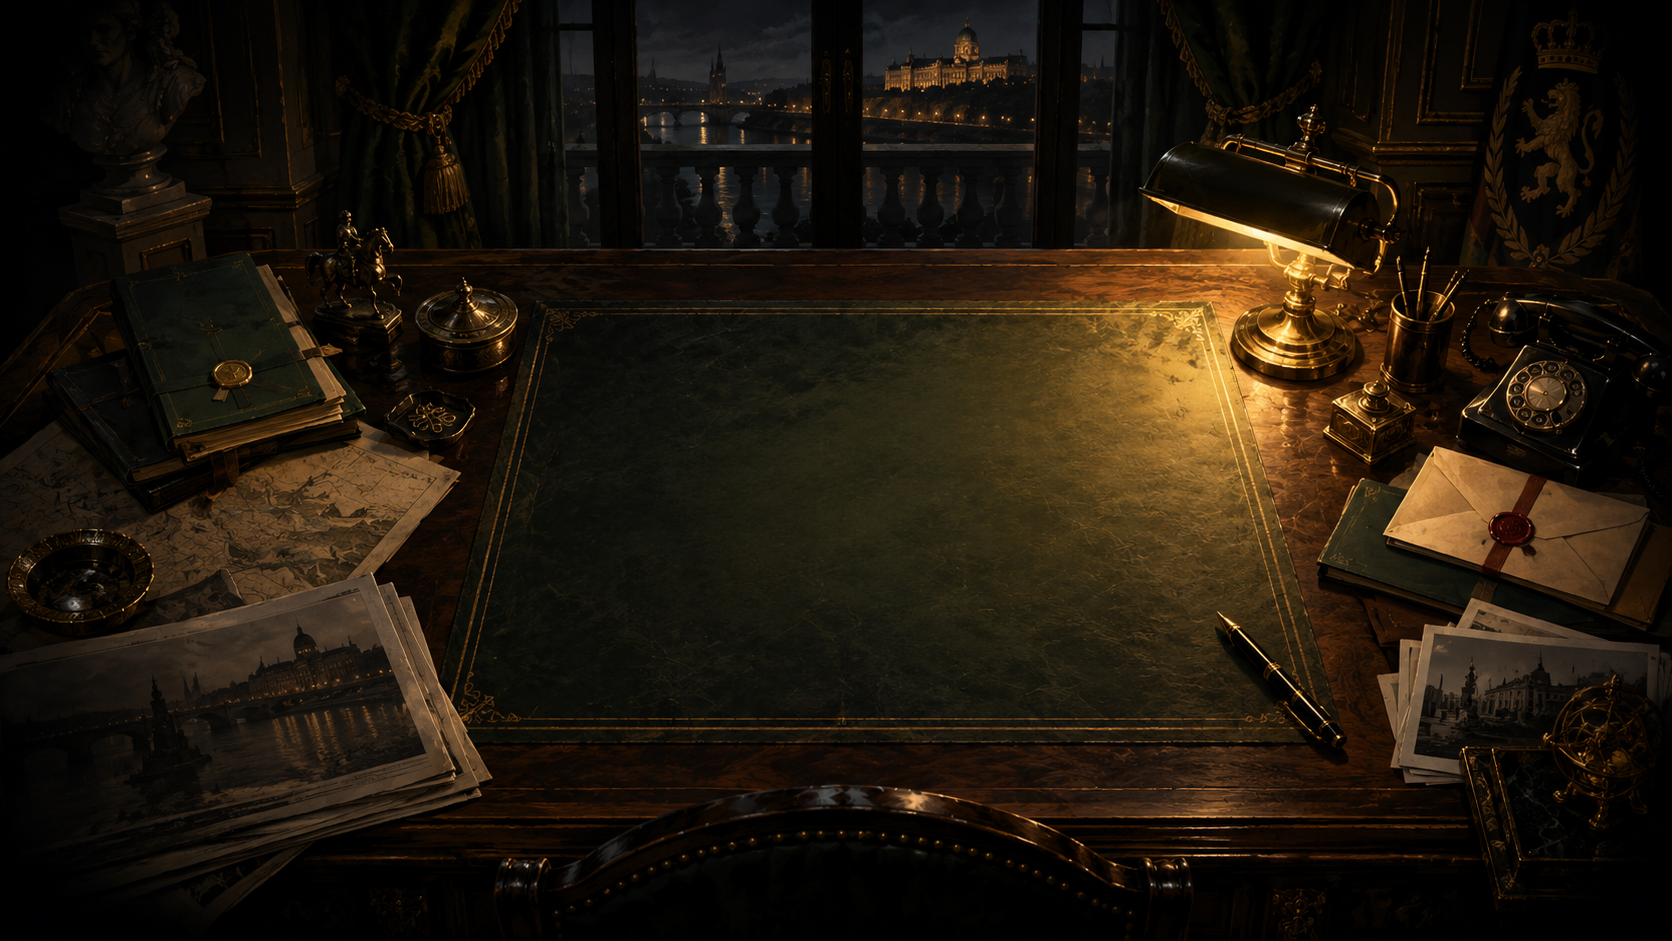
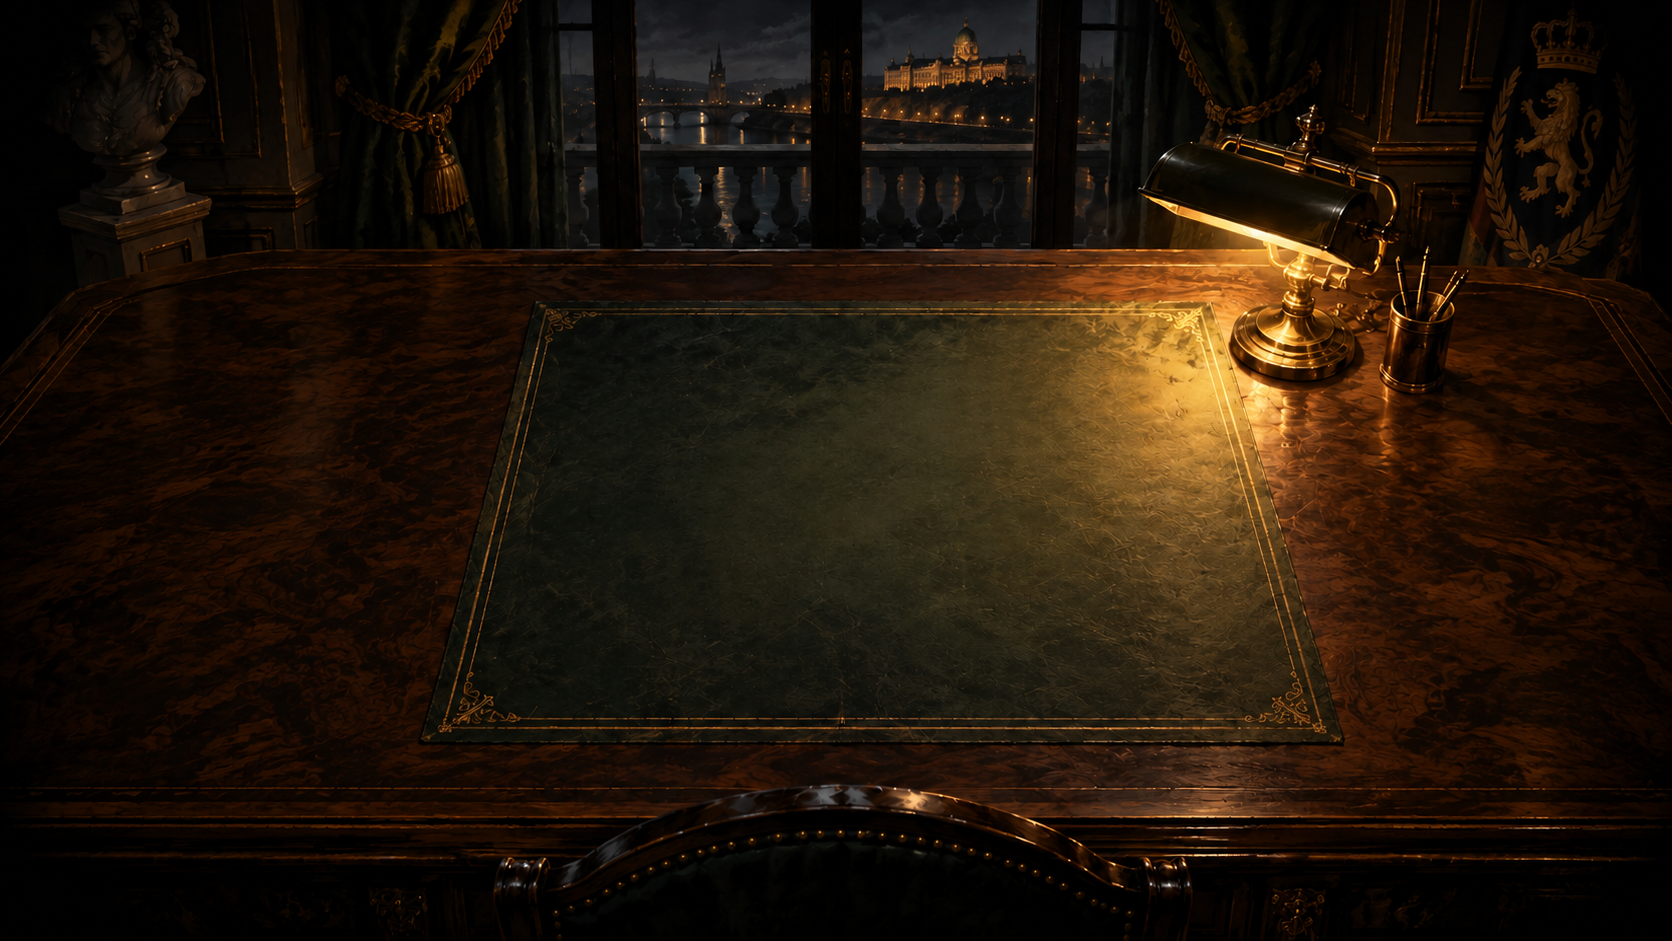
Boş masa arka planı, skill kullanım kılavuzu, devir notu
Yeni bg_desk.png (eşyasız masa; eskisi art/_arsiv), masa nesneleri yeni yüzeye göre yerleşti. docs/SKILL_KULLANIMI.md eklendi, devir notu güncellendi.

diff --git a/docs/DURUM_VE_YAPILACAKLAR.md b/docs/DURUM_VE_YAPILACAKLAR.md
@@ -1,40 +1,87 @@
 # Veloria — Durum ve Yapılacaklar (yeni oturum için devir notu)
 
-Son güncelleme: 2026-10-04 (ikinci oturum). Dal: `veloria`. Çalışma ağacındaki `.mcp.json`, `BECKETT_SETUP.md`, `project.godot` değişiklikleri (Beckett token'ının kaldırılması) kullanıcınındır; commit'lere katılmadı, dokunma. Push YOK: `origin` Beckett'in kendi deposu; kullanıcı kendi deposuna yedeklemek isterse yeni repo açıp `veloria` dalını oraya göndermeli (öneri yapıldı, cevap gelmedi).
+Son güncelleme: 2026-10-04 (üçüncü oturumun sonu). Dal: `veloria`.
+
+## Yeni oturumda ilk iş
+1. Bu dosyayı oku.
+2. `CLAUDE.md` (kullanıcının çalışma kuralları: önce incele, tasarla, sonra kodla; kalite > hız).
+3. `.claude/skills/game-design/VELORIA.md`: mimari, olay şeması, komutlar, tuzaklar, ölçülmüş denge.
+4. Skill'ler: `docs/SKILL_KULLANIMI.md` (hangi iş için hangi skill).
+
+## Dokunulmayacaklar
+- Çalışma ağacındaki `.mcp.json`, `BECKETT_SETUP.md`, `project.godot` değişiklikleri (Beckett token'ının kaldırılması), `CLAUDE.md` ve `.cursor/` kullanıcınındır. Commit'e katma.
+- Godot `--import` ya da export `.mcp.json` portunu değiştirebiliyor (8772 gibi). İşlemden sonra `"url": "http://127.0.0.1:8770/mcp"` olarak geri al; token satırını geri ekleme.
+- Push YOK: `origin` Beckett'in deposu. Kullanıcıya kendi deposunu açması önerildi, henüz cevap yok. Kodun uzak yedeği yok.
 
 ## Proje
-Godot 4.7.2, Türkçe, yatay. Kral Adrian IV, 104 hafta tahtta kalma simülasyonu. Kullanıcı: Mesut Canturk. Görselleri kullanıcı ChatGPT/Imagen ile üretiyor; ben prompt veriyorum (`ART_PROMPTS.md`). Görselleri rastgele adla `art/` köküne ya da bir klasöre atıyor; ben içeriğe bakıp (kontakt sayfası) doğru ada taşıyorum, `.import` ayarlarına boyut sınırı + lossy + mipmap uyguluyorum.
+Godot 4.7.2, Türkçe, yatay. Kral Adrian IV, 104 hafta tahtta kalma simülasyonu. Kullanıcı: Mesut Canturk. Görselleri kullanıcı ChatGPT/Imagen ile üretiyor, prompt'ları ben veriyorum (`ART_PROMPTS.md`). Görselleri rastgele adla `art/` içine atıyor; yerleştirme süreci `/asset-spec` skill'inde tanımlı.
 
-## Çalıştırma ve test
+## Çalıştırma ve test (ayrıntı: VELORIA.md > Komutlar)
 - Godot console: `C:\Users\USER\Downloads\Godot_v4.7.2-stable_win64.exe\Godot_v4.7.2-stable_win64_console.exe`
-- Testler: `--headless --path . --script res://tests/sim_test.gd` (denge+sistemler), `pacing_test.gd`, `cause_probe.gd`
-- Arayüz otomatik oynatma: `-- --autoplay`, `--mobile`, `--full` (Kolay seviyede 104 haftayı arayüzden oynar)
-- Ekran görüntüsü: pencereli `--path . --script res://tests/ui_shots.gd -- --out=KLASÖR [--mobile]` (görüntüleri Read ile incele)
-- Build: `--export-release "Windows Desktop"|Linux|Web` → `dist/windows|linux|web`; zip'ler `dist/release/`. Export sonrası `.mcp.json` portu 8770'e geri alınmalı.
-- Beckett MCP (127.0.0.1:8770) editör açıkken çalışır; araçlar oturumda görünmezse HTTP JSON-RPC ile çağır. Dev bayrakları (`veloria/dev_*`) project.godot'ta KAPALI kalmalı.
-- Tuzaklar: `class_name` yerine `preload`; web'de ◆ ⏳ → gibi glifler kutu çıkar; görünmez Control'ler tıklama yutar (Beckett `ui_snapshot` → `occluded_by` ile tara); yapay `push_input` tıklama testi çalışmıyor; PowerShell'de çok satırlı commit mesajı için `-m` kullan; testler oyuncu kaydına dokunmaz (`save_path`, `record_chronicle`, `autosave`).
+- `sim_test.gd` (TEST: OK), `pacing_test.gd`, `-- --autoplay` (`--mobile`, `--full`), `ui_shots.gd` (pencereli ekran görüntüsü; `--only-desk`, `--only-world`, `--mobile`)
+- Denge sondajı: `.claude/skills/balance-check/probe_template.gd` (`-- --n=40 --all-diffs`)
+- İçe aktarma (editör kapalıyken): `--headless --path . --import`
 
 ## Yapılanlar (tamamı commit'li)
-Simülasyon: gizli durum+raporlar+yalan, ortak bilgi, eşik kaskadı/darbe, emir kanalları, operasyonlar, şantaj/araştır/kırmızı çizgi, söz defteri, zorluk (Kolay/Normal/Zor), 71 olay (zincirleme dahil), başarımlar (15), tarihçiler, hakikat dosyası+grafik, arşiv, otomatik kayıt, Türkçe ek uyumu (`Sim.ek`).
-Arayüz: tema, sinematikler (açılış/final/hafta geçişi/mühür), Çalışma Masası, Başkent Haritası, Medya Merkezi (2 gazete + TV), mobil yatay düzen, kısayollar, ayarlar, Hakkında, açılış ekranı, tüm görseller yerleşik (71 olayın hepsi görselli, art/desk, art/city_map.png).
-Son tur (274e6df): düğme hiyerarşisi (Ghost/Danger/Choice), gruplu eylem paneli, sır kartları, bildirim yığını, iki sütun rapor.
-Belgeler: `docs/OYUNCU_REHBERI.md`, `docs/GELISTIRICI_REHBERI.md`, `docs/ARAYUZ_PLANI.md`.
+- **Simülasyon:** gizli durum + yalan söyleyen raporlar, ortak bilgi ve eşik kaskadı/darbe, emir kanalları, operasyonlar, şantaj/araştır/kırmızı çizgi, söz defteri, 3 zorluk, 71 olay, 15 başarım, tarihçiler, Hakikat Dosyası + grafik, arşiv, otomatik kayıt.
+- **Arayüz turları 1–3:**
+  - akış şeridi
+  - sekmeli oyun sonu
+  - sayfalı menü (4 düğme, Yeni Oyun'da zorluk, Ayarlar ayrı sayfada)
+  - masada ışık ve gölge (`desk_lit` / `desk_shadow` gölgelendiricileri)
+  - masa etiketlerinin altında tek satır özet
+  - kişi paneli göstergeleri
+  - ortak görsel imza (`UIKit.band_style`, `ornament`, `divider`, `caps`, `_section`)
+  - tam dolu portre kartları
+- **Bu oturum:**
+  - Proje analizi raporu verildi (aşağıdaki "Yol haritası" ondan çıktı).
+  - 11 projeye özel skill eklendi (`.claude/skills/`, `docs/SKILL_KULLANIMI.md`).
+  - **Boş masa arka planı yerleşti:** yeni `art/bg_desk.png`, eskisi `art/_arsiv/bg_desk_esyali.png`; `desk_view.gd` `LAYOUT` yeni masaya göre ayarlandı.
 
-Arayüz turu 2 (2026-10-04, ikinci oturum): 1, 4, 5 yapıldı —
-- Akış şeridi (`_rebuild_flow`, `_flow_chip`, `_on_flow`): alt satırda Haftayı Bitir'in solunda; mesai, bekleyen/acil karar, okunmamış medya, vadesi gelen söz, yayılan sır. Parçalar tıklanınca Gündem/Medya/Dosyalar'a götürür.
-- Oyun sonu sekmeleri (`_end_tabs`, `_end_page`): Özet / Grafik / Tarihçiler / Hakikat Dosyası (n) / Kararlar; grafik sekme ilk açılınca çizilir. "Ana Menü" düğmesi eklendi.
-- Menü sayfaları (`_menu_page`, `_menu_show_page`): ana sayfa 4 düğme (Devam Et|Oyuna Dön, Yeni Oyun, Ayarlar, Çıkış — web'de Çıkış gizli) + bağlantılar (Nasıl Oynanır, Arşiv, Hakkında). Zorluk "Yeni Oyun" sayfasında, ayarlar ayrı sayfada. Esc alt sayfadan ana sayfaya döner.
-- Ekran görüntüsü aracı: `tests/ui_shots.gd` (pencereli; `-- --out=KLASÖR [--mobile]`), dev ayarlarını yalnızca bellekte açar.
+## Ölçülmüş denge (Normal, 40 kampanya, probe_template)
+| Bot | Kazanma | Ort. hafta | Not |
+|---|---|---|---|
+| idle | 0% | 25 | hep askerî darbe |
+| visible (kararlar rastgele) | 17% | 53 | gerçek oyuncuya en yakın |
+| visible_wise (kararlarda etkiyi tahmin eder) | 75% | 94 | |
+| omniscient | 12% | 85 | hedef değil |
 
-Arayüz turu 3 (görsel cila):
-- Masa: nesneler masanın lambasıyla aydınlatılıyor (`desk_lit.gdshader`, `LAMP_UV`) ve silüetlerinden gölge düşürüyor (`desk_shadow.gdshader`: geniş düşen gölge + dar temas gölgesi). Yerleşim/dönüş/yükseklik `LAYOUT` ve `FEEL`'de. Üzerine gelince nesne kalkar, gölgesi yumuşar. Rozetler nesneden kalktı; etiketin yanında küçük işaret + altında tek satır özet (`_summary`).
-- Kişi paneli: göstergeler (`_trait`): güç 3 kademe, düşman, karşılık bekliyor, zayıf nokta/kırmızı çizgi (bilinmiyorsa "?"), doğrulama karnesi, sözler. Bilgi miktarı eskisiyle aynı.
-- Ortak imza: `UIKit.band_style()` (ana ekran, harita, medya başlık bandı), `UIKit.ornament()` (köşebentler), `UIKit.divider()` (masa ve menü başlık ayracı), `UIKit.caps()` (aralıklı başlık fontu), `_section()` bölüm başlıkları. Portre kartları tam dolu, ad portrenin üstünde.
+Kararların kalitesi sonucu belirliyor ama oyuncu seçeneklerin etkisini göremiyor. Kayıpların çoğu askerî darbe. Kazananlar çoğunlukla "… Kuklası" ünvanı alıyor. İkinci yılda olay yoğunluğu ~0,5/hafta.
 
-## Yapılacaklar (öncelik sırası)
-1. Boş masa arka planı bekleniyor (prompt: `ART_PROMPTS.md` > "Boş masa arka planı"). Gelince `art/bg_desk.png` yerine koy (eskisini `art/_arsiv`), `LAYOUT`'u yeni görselde nesneler masaya otursun diye ince ayarla, `LAMP_UV`'yi lambaya göre düzelt.
-Not: menü açılınca sağ üstteki bildirimler temizleniyor (eskiden menünün üstünde kalıyordu).
-Diğer: kullanıcı henüz tam bir saltanat oynamadı; geri bildirimi (denge, metin, ses) bekleniyor. Sentezlenmiş sesleri kimse dinlemedi ("sesler iyi" dedi). Linux build gerçek makinede denenmedi. Android/iOS kasıtlı yapılmadı (kullanıcı: APK gerekmez).
+## Yol haritası (analiz raporundan; kullanıcı henüz faz seçmedi)
+**Faz 0 — Güvence**
+- kendi deposunu açması (kullanıcı)
+- kayıt dosyasına `version` alanı ve göç (`/tech-debt`)
+- `events.json` doğrulayıcı
+- ~~boş masa~~ (yapıldı)
+- ~~görünür bilgi botu~~ (probe_template'te var; `sim_test`'e de eklenebilir)
+
+**Faz 1 — Okunabilirlik (en yüksek etki)**
+- seçeneklerde yanılabilir danışman görüşleri
+- darbeyi aşamalı ve görünür yapmak (tohum → işaret → gerilim → kriz), kişi kartında "huzursuz/şüpheli" sinyali
+- raporlarda geçen haftaya göre değişim
+- hafta sonu "neler değişti" özeti
+- eylem önizlemesi (maliyet / risk / iz)
+
+**Faz 2 — Strateji derinliği ve denge**
+- kayıp çeşitliliği
+- rüşvete azalan getiri
+- hedefli "birbirine düşür"
+- aktörlerin kendi hamleleri
+- denge hedefleri `/balance-check`'te
+
+**Faz 3 — Kampanya ve içerik:** dönemler, ikinci yıl için 20–30 olay, karakter hikâye yayları, rejim tipi ve buna bağlı final tehdidi.
+
+**Faz 4 — Belgedeki büyük sistemler:** devlet bütçesi/kapasitesi, patronaj/oligark.
+
+**Faz 5 — Cila ve altyapı:** gerçek ses ve müzik, `main.gd`'yi bölmek, artırımlı arayüz güncellemesi, yerelleştirme.
+
+Önerilen başlangıç: Faz 1, "seçeneklerde danışman görüşü". Önce `/design-system` ile tasarlanmalı.
+
+## Bilinen küçük sorunlar
+- Sağ üstteki bildirimler masa ve haritanın üstünde kalıyor (menü açılınca temizleniyor).
+- Masada soldaki günlük lambadan uzak olduğu için karanlık kalıyor; okunurluk için `desk_lit` `ambient` ya da günlüğün yeri ayarlanabilir.
+- Kullanıcı henüz tam bir saltanat oynamadı; denge, metin ve ses geri bildirimi bekleniyor. Linux build gerçek makinede denenmedi. Android/iOS kasıtlı yapılmadı.
 
 ## Kullanıcı tercihleri
-Sormadan ilerle ("bana hiç sorma"); sonuçta kısa Türkçe özet; commit'e izin verdi; push etme.
+Sormadan ilerle; büyük özellikte önce tasarla (`CLAUDE.md`). Sonuçta kısa Türkçe özet. Commit'e izin var, push yok.

diff --git a/docs/SKILL_KULLANIMI.md b/docs/SKILL_KULLANIMI.md
@@ -1,0 +1,61 @@
+# Skill'ler nasıl kullanılır?
+
+Veloria'ya özel 11 skill `.claude/skills/` klasöründe. Her biri Claude'a bu projede belirli bir işi nasıl yapacağını anlatan hazır bir çalışma talimatı.
+
+## Çağırmanın iki yolu
+
+**1. Doğrudan komutla:** Mesajın başına `/` ve skill adını yaz, ardından ne istediğini ekle.
+
+```
+/balance-check Zor seviye çok mu zor?
+/design-system darbe sistemini baştan tasarla
+/asset-spec art klasörüne yeni bir görsel attım, yerleştir
+```
+
+**2. Doğal dille:** Skill adını bilmen gerekmez. "Denge nasıl?", "bu ekranı kontrol et", "yeni olay görseli lazım" gibi yazdığında Claude uygun skill'i kendisi seçer. Belirli bir yöntem istiyorsan komutla çağırmak daha garantilidir.
+
+Yeni eklenen ya da değiştirilen skill'ler oturum başında yüklenir. Listede görünmüyorsa yeni bir oturum aç.
+
+## Hangi iş için hangisi?
+
+| Ne istiyorsun? | Skill | Ne üretir? |
+|---|---|---|
+| Aklına bir özellik geldi, oyuna değer mi? | `/game-design` | Kısa tasarım notu: oyuncu kararı, riskler, en küçük sürüm, uygulama planı |
+| Tek bir sistemi (darbe, sırlar, ekonomi, sözler…) derinlemesine tasarlamak | `/design-system` | `docs/design/<sistem>.md`: kurallar, formüller, etkileşimler, denge hedefleri |
+| Yazılmış bir tasarımı ya da olay paketini eleştirmek | `/design-review` | Onay / değişiklikle onay / yeniden tasarım kararı ve en önemli 3 sorun |
+| Oyun çok mu zor, kolay mı, bir hile var mı? | `/balance-check` | Bot simülasyonu tablosu (kazanma %, kayıp türleri, ünvanlar, tempo) ve öneriler |
+| Bir ekranı ya da HUD öğesini tasarlamak | `/ux-design` | `docs/ux/<ekran>.md`: yerleşim çizimi, durumlar, metinler |
+| Arayüz amatör mü görünüyor, bir şey bozuk mu? | `/ux-review` | Ekran görüntülerine dayanan, önem sırasına dizilmiş bulgu listesi |
+| Bir arayüz işini baştan sona bitirmek | `/team-ui` | Tasarım → kod → görsel kontrol → testler → belge → commit |
+| Görsel kimliği belgelemek, tutarsız görselleri bulmak | `/art-bible` | `docs/ART_BIBLE.md` |
+| Yeni görsel lazım ya da attığın görseli yerleştirmek | `/asset-spec` | Prompt + teknik özellik; gelen görseli tanıyıp doğru ada taşır, içe aktarma ayarlarını yapar |
+| Kod sağlığı, yeniden düzenleme | `/tech-debt` | `docs/TECH_DEBT.md`: ölçümler, öncelik sırası, güvenli plan |
+| Proje hangi aşamada, yayına ne kaldı? | `/project-stage-detect` | Aşama tespiti (prototip / dikey dilim / alfa / beta), eksik listesi |
+| Yapılan kod değişikliklerini incelemek | `/code-review` | Claude Code'un yerleşik komutu |
+
+## Önerilen iş akışları
+
+**Yeni bir oyun sistemi**
+1. `/game-design <fikir>`: değer mi, kapsamı ne?
+2. `/design-system <sistem>`: ayrıntılı tasarım belgesi.
+3. `/design-review docs/design/<sistem>.md`: uygulamadan önce eleştiri.
+4. Uygulama ("şimdi uygula").
+5. `/balance-check`: önce ve sonra ölçüm.
+
+**Arayüz işi**
+- Tek komutla: `/team-ui <iş>`
+- Adım adım: `/ux-design` → uygulama → `/ux-review`
+
+**Görsel üretimi**
+1. `/asset-spec <ne lazım>`: prompt alırsın.
+2. Görseli ChatGPT'de üretip `art/` klasörüne istediğin adla at.
+3. `/asset-spec yeni görseli yerleştir`: adlandırma, içe aktarma ayarı ve ekranda kontrol yapılır.
+
+**Durum kontrolü**
+- `/project-stage-detect`, ardından önerdiği skill'ler.
+
+## İpuçları
+- Skill'lere bağlam ver: "Normal seviyede, ilk 30 hafta", "mobil görünüm de olsun" gibi.
+- Bütün skill'lerin ortak bilgi kaynağı `.claude/skills/game-design/VELORIA.md`. Proje değişince (yeni dosya, yeni komut, yeni ölçüm) önce burası güncellenmeli. Bunu Claude'dan da isteyebilirsin.
+- Skill'ler düz metin (`SKILL.md`). İstediğin gibi düzenleyebilir ya da yenisini ekleyebilirsin: `.claude/skills/<ad>/SKILL.md`, en üstte `name` ve `description` bulunmalı.
+- Denge kararlarında ölçüt, ekranda görünen bilgiyle oynayan bottur. Gizli değerleri okuyan bot gerçek oyuncuyu temsil etmez.
